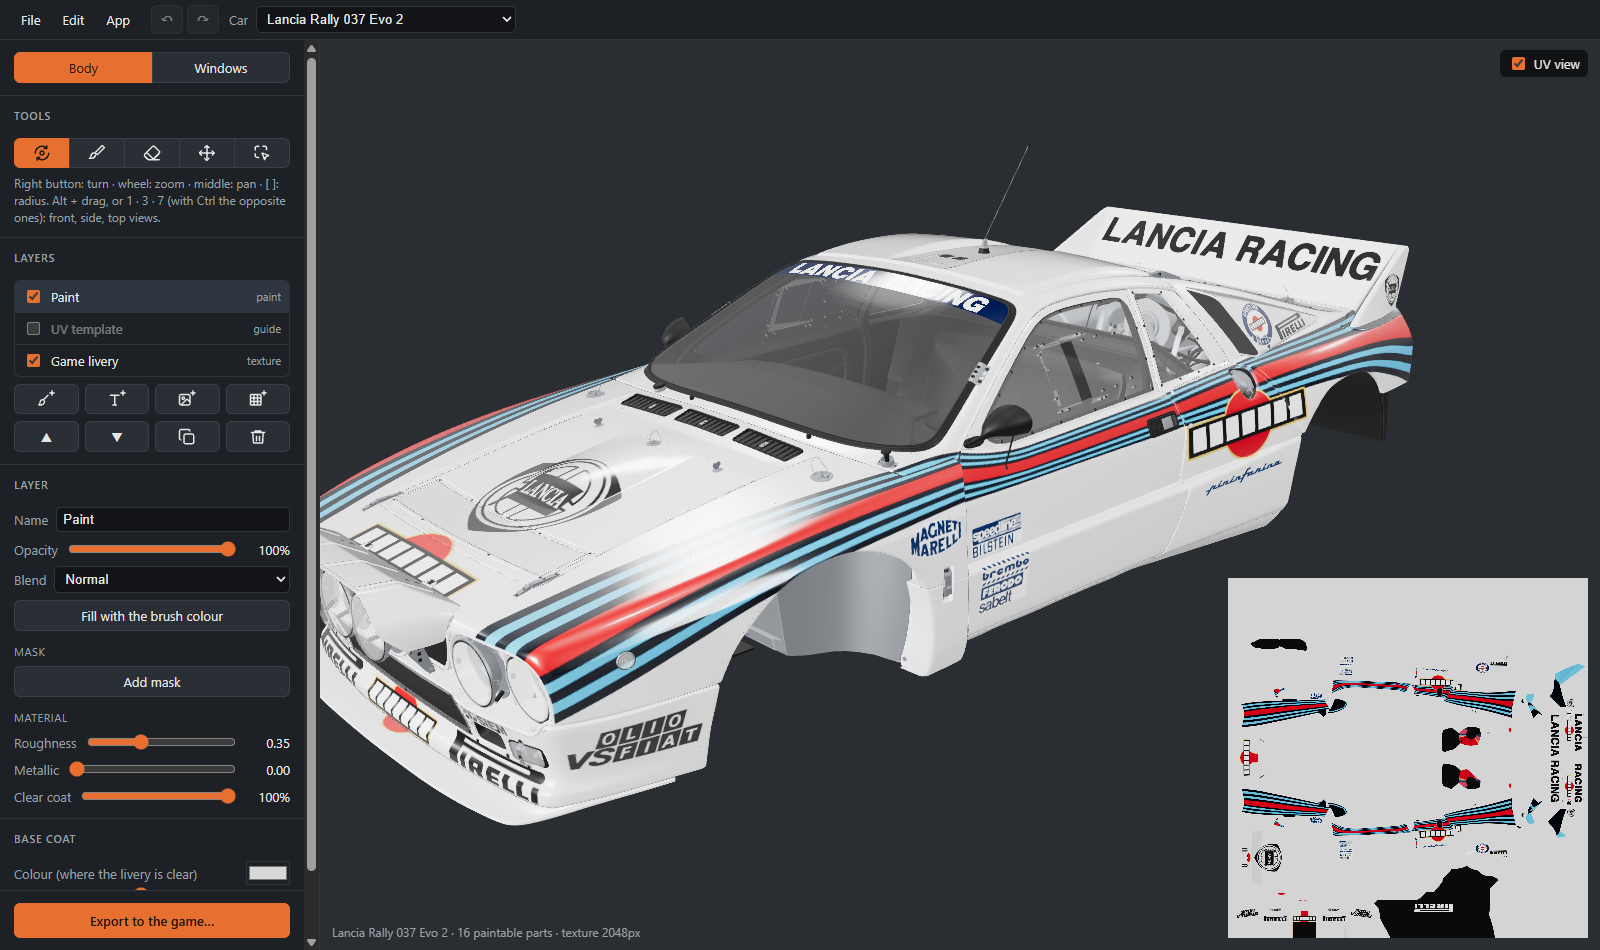
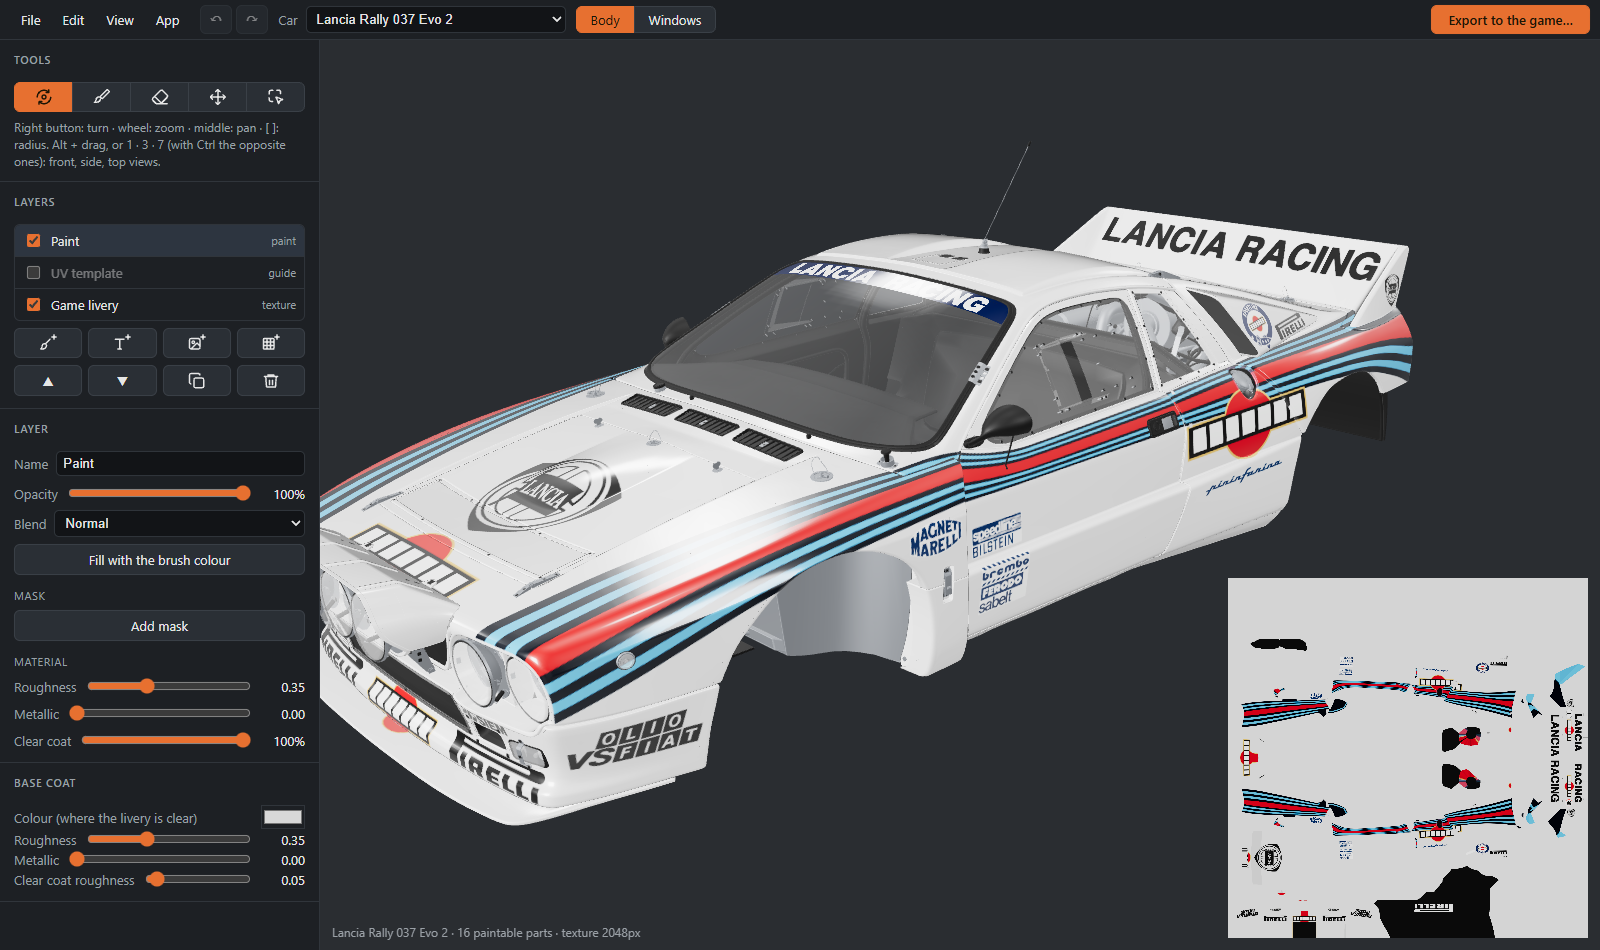
Docs for 0.5.0

diff --git a/CHANGELOG.it.md b/CHANGELOG.it.md
@@ -1,5 +1,30 @@
 # Novità
 
+## [0.5.0] - 2026-10-17
+
+Pennelli pronti, pressione della penna, uno strumento per dipingere parte per parte, e le livree gestite dall'app.
+
+### Novità
+- *File → Gestisci le livree nel gioco…*: le livree di ogni auto con icona, data e dimensione, e quante delle 25
+  sono attive. Apri la cartella di una livrea, disattivala e riattivala (il gioco la ignora finché è disattivata),
+  o spostala nel Cestino.
+- Strumento **Parti** (P): clic su una parte dell'auto (cofano, una portiera, un paraurti…) per mostrare solo lì
+  il livello selezionato, Maiusc+clic per nasconderla. *Parte intera* la prende tutta, *Anche l'altro lato* anche
+  la parte speculare.
+- Dieci pennelli pronti nel menu *Pennello*, ognuno con un'anteprima: tondo duro, tondo morbido, spruzzo, gesso, setole,
+  pennarello, pennino calligrafico, schizzi, puntinato e stelle. Colore, raggio e opacità che hai scelto restano.
+- Con una tavoletta grafica, *Il raggio segue la pressione della penna*, fino a un *Raggio minimo* a scelta.
+- Un menu *Vista*: *Vista UV* (U), e le viste davanti, lato e sopra. I tasti 1, 3, 7 (con Ctrl il lato opposto)
+  e Alt + trascinamento girano l'auto su di esse.
+
+### Modifiche
+- Dipingere è molto più veloce sui portatili con due schede grafiche: l'app ora usa quella dedicata.
+- *Carrozzeria* / *Vetri* ed *Esporta nel gioco…* sono nella barra in alto; gli strumenti sono icone, con il
+  nome passandoci sopra con il mouse.
+- Dopo un'esportazione, *Esporta* resta spento finché non cambi il nome o la casella degli adesivi, così una
+  livrea non si scrive due volte per sbaglio.
+- Una nuova icona dell'app.
+
 ## [0.4.0] - 2026-10-16
 
 Un aspetto nuovo, la cartella del gioco si può scegliere a mano e la finestra si apre dove l'avevi lasciata.

diff --git a/CHANGELOG.md b/CHANGELOG.md
@@ -1,5 +1,29 @@
 # Changelog
 
+## [0.5.0] - 2026-10-17
+
+Ready-made brushes, pen pressure, a tool to paint part by part, and your liveries managed from the app.
+
+### New
+- *File → Manage the liveries in the game…*: each car's liveries with their icon, date and size, and how many
+  of the 25 are in use. Open a livery's folder, turn it off and on (the game skips it while it is off), or
+  move it to the Recycle Bin.
+- **Parts** tool (P): click a part of the car (hood, a door, a bumper…) to show the selected layer only
+  there, Shift+click to hide it. *Whole part* takes all of it, *The other side too* the mirrored part as well.
+- Ten ready-made brushes in the *Brush* menu, with a preview of each: hard round, soft round, spray, chalk, bristles,
+  marker, calligraphy nib, spatter, stipple and stars. The colour, radius and opacity you set stay.
+- With a drawing tablet, *Radius follows pen pressure*, down to a *Minimum radius* you choose.
+- A *View* menu: *UV view* (U), and front, side and top views. The keys 1, 3, 7 (Ctrl for the opposite
+  side) and Alt + drag turn the car to them.
+
+### Changed
+- Painting is much faster on laptops with two graphics cards: the app now uses the dedicated one.
+- *Body* / *Windows* and *Export to the game…* are in the top bar; the tools are icons, named when you hover
+  them.
+- After an export, *Export* stays off until you change the name or the stickers box, so a livery is not
+  written twice by mistake.
+- A new app icon.
+
 ## [0.4.0] - 2026-10-16
 
 A new look, the game's folder can be chosen by hand, and the window opens where you left it.
